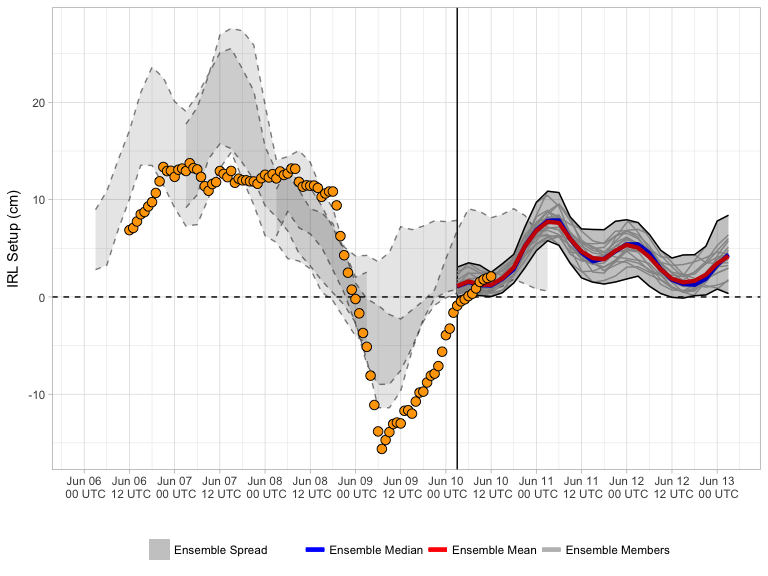
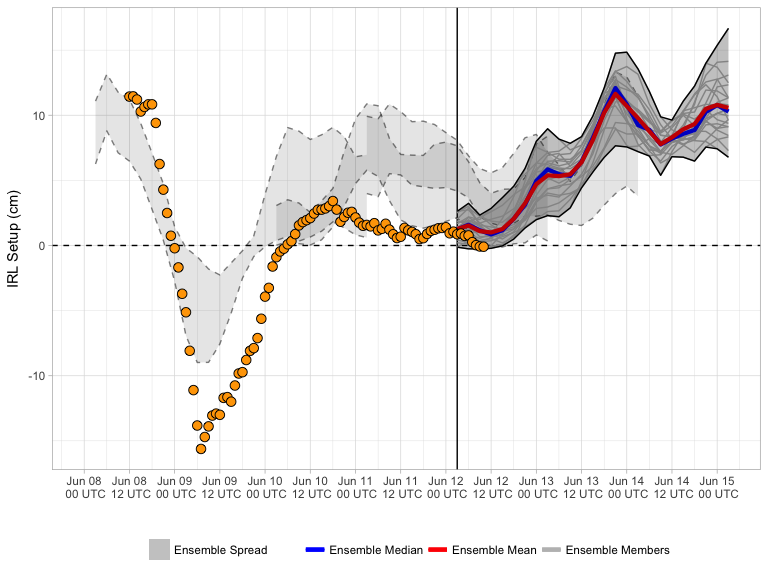
20170612 forecast update

diff --git a/docs/index.md b/docs/index.md
@@ -3,7 +3,7 @@ Current Forecast
 
 [![](img/raw_setup.png)](https://bhlmn.github.io/IRLSetup/img/raw_setup.png)
 
-> Forecast valid 2017-06-10 08:26:02.
+> Forecast valid 2017-06-12 07:05:32.
 
 Explanation
 -----------
@@ -15,7 +15,7 @@ water elevation in the northern IRL (near Titusville), and negative
 setup indicates the increase elevation in the southern IRL (near
 Sebastian). The x-axis displays the date and time in UTC. The solid
 vertical line represents the beginning of the most recent ensemble
-forecast (currently 2017-06-09 18:00:00). For this most recent forecast,
+forecast (currently 2017-06-11 18:00:00). For this most recent forecast,
 the ensemble spread (grey shading) is bound by solid black lines, with
 individual members represented by faint grey lines. The ensemble mean
 and median for this are represented by the red and blue curves,
